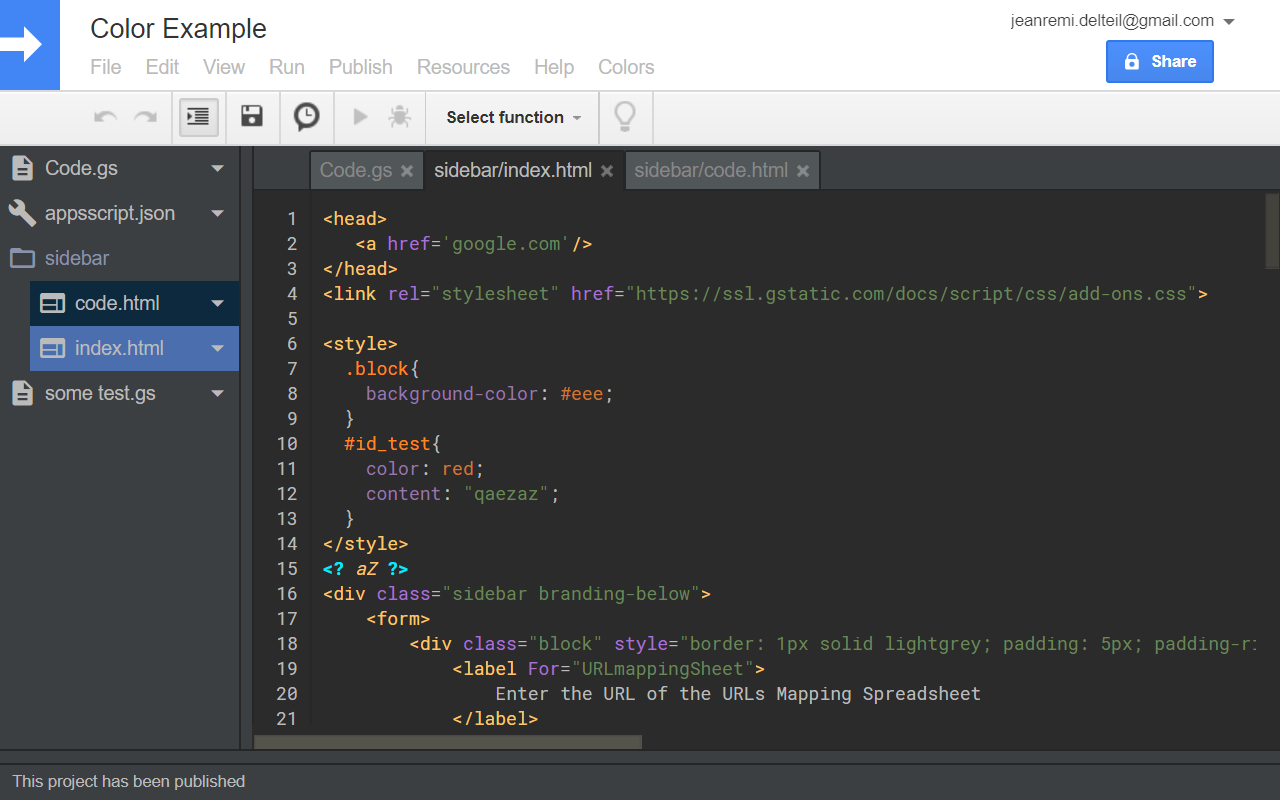
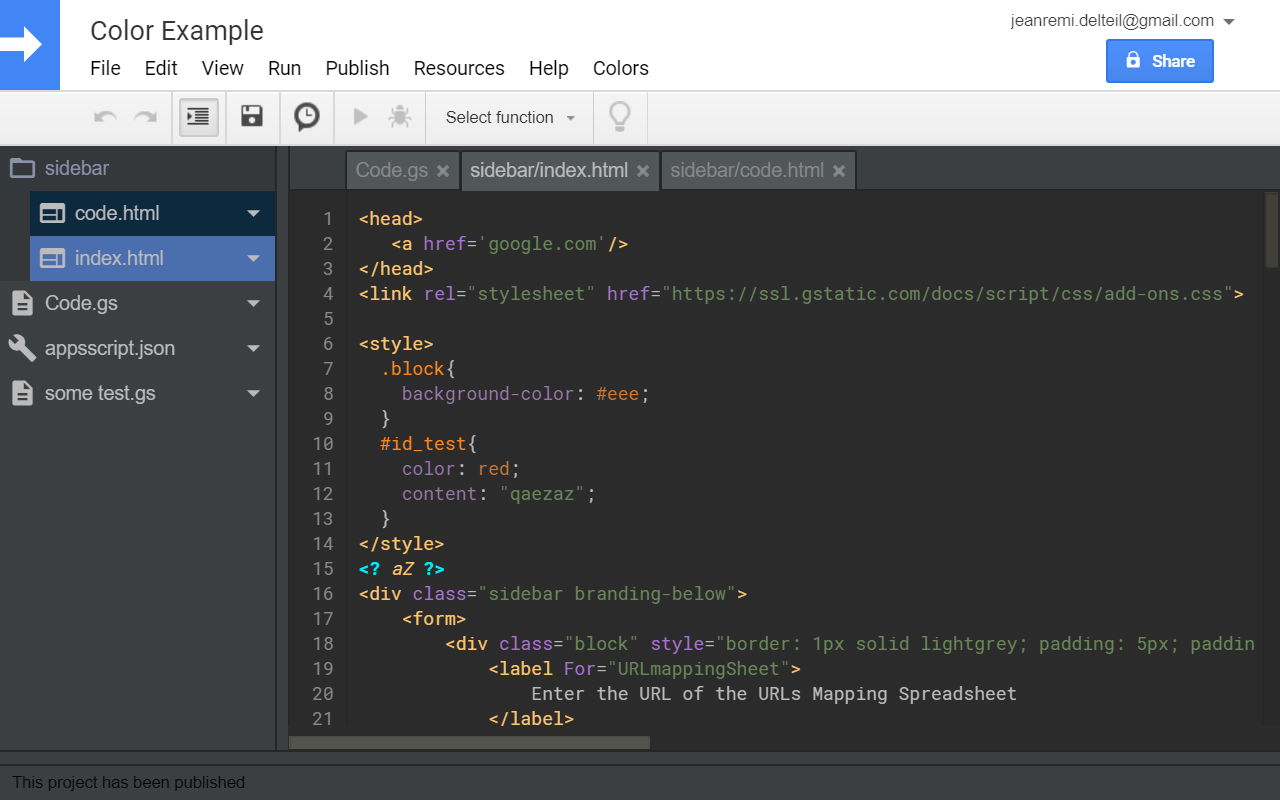
Update Chrome webstore version to 1.1.0

diff --git a/README.md b/README.md
@@ -4,6 +4,74 @@ Google Chrome extension to change the color style of the (GAS) google apps scrip
 https://chrome.google.com/webstore/detail/appsscript-color/ciggahcpieccaejjdpkllokejakhkome
 
 
-TODO
+TODO / Nice to have
 - keyboard shortcut to navigate between coding tab
-- custom auto-complete functions list
+
+Note: Editing the code is not something in the scope of this extension.\
+So these are out of scope:
+- Custom code autocomplete
+- Code folding,
+- Different code editor (--> use CLASP locally) 
+
+## Description
+
+AppsScript Color provides other color themes for Apps Script developers.
+
+These dark themes are more contrasted and comfy, allowing to code for hours !
+Choose from the 'Colors' integrated menu one of the following themes :
+- Black fox console
+- Darcula
+- Default
+
+For now the extension applies a color theme of your choice on Apps Scripts open on script.google.com
+It works for standalone scripts and scripts linked to native Google documents.
+
+[new] Customize your own theme with the Theme editor !
+
+AppsScriptColor also add a structured Folder view for a tidier file list !
+To add folders, rename your files to include the path in their name:
+myFolder/some_subfolder/myfileName
+
+
+Updated :
+
+v1.1.0
+- Custom theme editor allows to create theme derivated from the 3 default themes\
+Find the Theme Editor in the color menu
+
+v1.0.2
+- Folder are grouped above files
+- Folder color match their nesting level
+
+v1.0.1
+- New Folder system: use the '/' character in your file names to display a structure Folder view
+This will allow great compatibility with the new CLASP command line tool (https://github.com/google/clasp)
+
+v0.3.6
+- Fix adding or removing a folder work as expected again
+
+v0.3.5
+- Fix Color not applied at page loading
+
+v0.3.3
+- Fix GAS CSS update for font
+
+v0.3.2
+- New scroll-bar color for Black fox console
+
+v0.3.1
+- Smoother folder opening
+
+v0.3.0
+- Added custom Folders to sort your files locally !
+- Updated color schemes to account for the folders
+
+v0.2.3
+- Minor bug fixes : the extension only run script edit page
+
+v0.2.0
+- New color theme : Darcula, with bigger font
+- Colors menu: Choose from the 2 existing themes or set to the default
+
+v0.1.1
+- Added more suited color for HTML template tokens ( <?  ?> )
